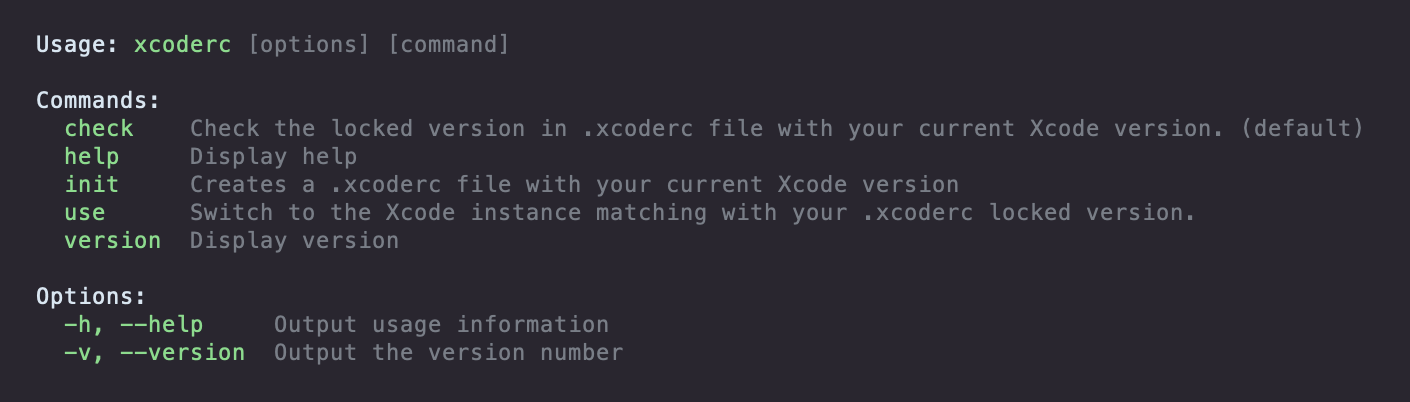
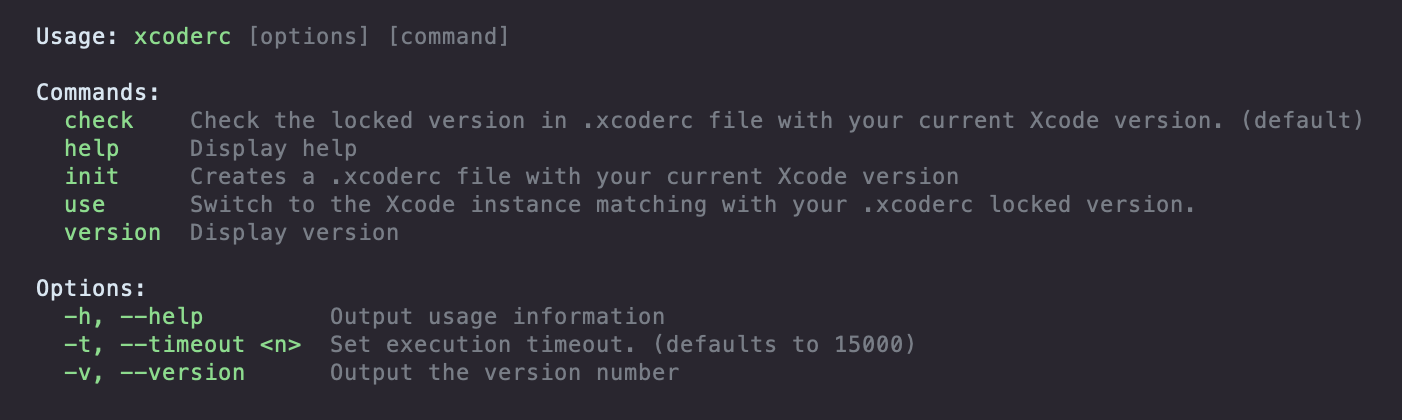
Add exit code and timeout option

Changed region(s): [[0.0, 0.209, 0.9815, 0.6269], [0.0, 0.6567, 0.6441, 0.9254], [0.0, 0.0597, 0.368, 0.1493]]

diff --git a/bin/cli.js b/bin/cli.js
@@ -4,6 +4,7 @@
 
 'use strict';
 
+const emoji = require('node-emoji');
 const chalk = require('chalk');
 const args = require('args');
 
@@ -11,14 +12,22 @@ const lib = require('../lib').default;
 const {COMMAND, CONFIG_FILE_NAME, BINARY_NAME} = require('../lib/const');
 const {UnknownCommandError} = require('../lib/helpers/errors');
 
+let exitCode;
+
 function handler(command) {
-  lib(command)
-    .catch(e => {
+  return lib(command)
+    .then(function() {
+      exitCode = 0;
+    })
+    .catch(function(e) {
       console.error(chalk.red(e.message));
 
       if (e instanceof UnknownCommandError) {
         console.log("\n");
+        exitCode = 127;
         args.showHelp();
+      } else {
+        exitCode = 1;
       }
     });
 }
@@ -26,15 +35,39 @@ function handler(command) {
 args
   .command('check', `Check the locked version in ${CONFIG_FILE_NAME} file with your current Xcode version. (default)`, handler)
   .command('init', `Creates a ${CONFIG_FILE_NAME} file with your current Xcode version`, handler)
-  .command('use', `Switch to the Xcode instance matching with your ${CONFIG_FILE_NAME} locked version.`, handler);
+  .command('use', `Switch to the Xcode instance matching with your ${CONFIG_FILE_NAME} locked version.`, handler)
+  .option('timeout', `Set execution timeout.`, 15000);
 
 const [,, command] = process.argv;
 
-args.parse(process.argv, {
+const flags = args.parse(process.argv, {
   name: BINARY_NAME,
-  mainColor: 'green'
+  mainColor: 'green',
+  exit: {
+    help: false,
+    version: false
+  }
 });
 
-if (!command || !Object.values(COMMAND).includes(command)) {
+if (['version', 'help'].includes(command)) {
+  exitCode = 0;
+} else if (Object.values(COMMAND).includes(command)) {
+  // Do nothing
+} else if (!command || command.slice(0, 1) === '-') {
+  handler();
+} else {
   handler(command);
 }
+
+let executionTime = 0;
+
+setInterval(function() {
+  executionTime += 100;
+  if (executionTime >= flags.timeout) {
+    console.error(chalk.red(`${emoji.get('confused')} The script ended with timeout. Try to increase this value with '--timeout' option.`));
+    process.exit(124);
+  }
+  if (exitCode !== undefined) {
+    process.exit(exitCode);
+  }
+}, 100);
